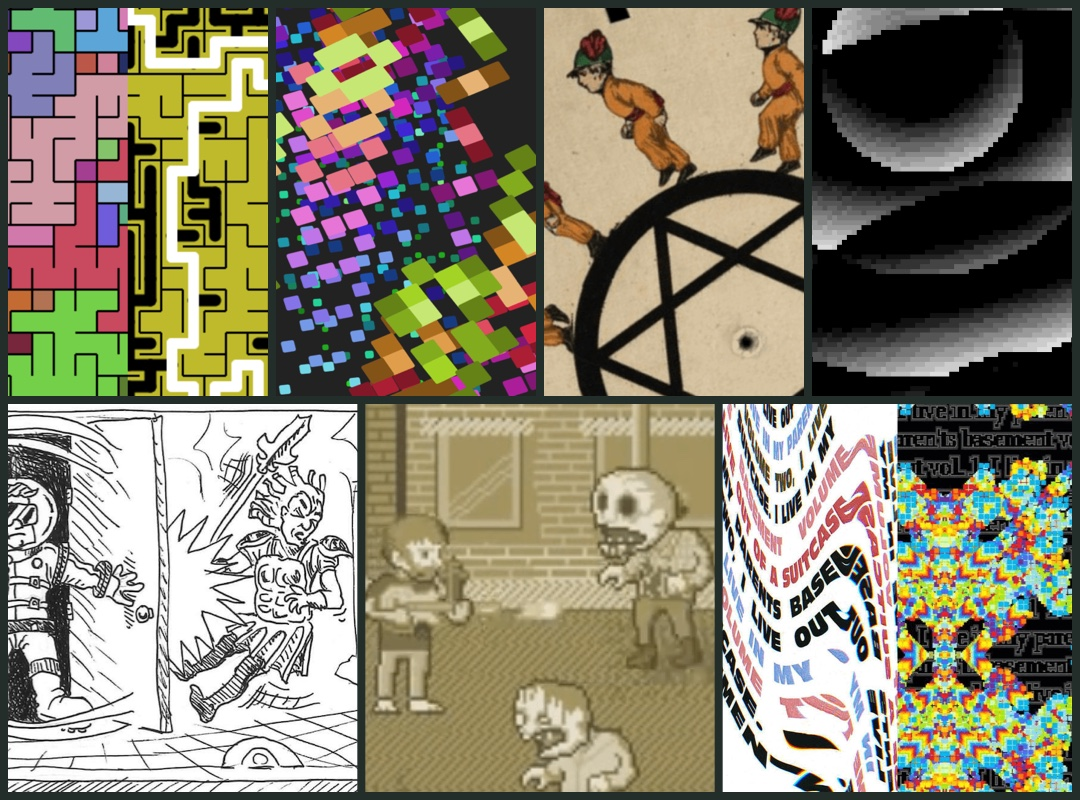
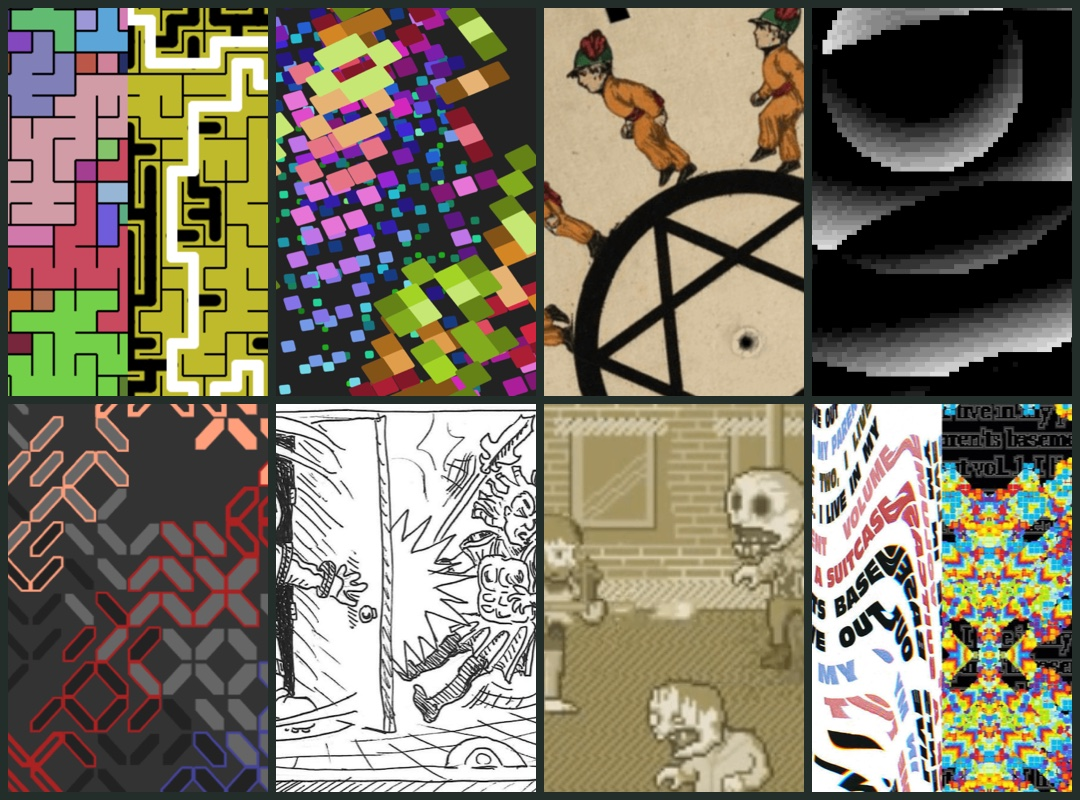
new font, reorganize

diff --git a/public_html/index.html b/public_html/index.html
@@ -118,19 +118,10 @@
           </a>
         </li>
         <li class="gallery-item">
-          <a class="gallery-card" href="projects/10-print.html" aria-describedby="gallery-brief-3">
-            <div class="gallery-visual">
-              <img src="images/10print.png" alt="" width="640" height="420" loading="lazy">
-              <p class="gallery-brief" id="gallery-brief-3">A take on the classic BASIC program: simple random slashes grow into an intricate, maze-like pattern.</p>
-            </div>
-            <div class="gallery-caption"><div><span class="gallery-category">Generative art</span><h3>10 Print</h3></div><span aria-hidden="true">↗</span></div>
-          </a>
-        </li>
-        <li class="gallery-item">
           <a class="gallery-card" href="projects/other-experiments-and-art.html" aria-describedby="gallery-brief-other-experiments">
             <div class="gallery-visual">
               <img src="images/other-experiments-and-art.jpg" alt="" width="1080" height="800" loading="lazy">
-              <p class="gallery-brief" id="gallery-brief-other-experiments">Seven projects spanning browser demos, webcomics, animation, and music.</p>
+              <p class="gallery-brief" id="gallery-brief-other-experiments">Eight projects spanning browser demos, webcomics, animation, and music.</p>
             </div>
             <div class="gallery-caption"><div><span class="gallery-category">Projects</span><h3>Other experiments and art</h3></div><span aria-hidden="true">↗</span></div>
           </a>

diff --git a/public_html/projects/10-print.html b/public_html/projects/10-print.html
@@ -2,31 +2,11 @@
 <html lang="en">
 <head>
   <meta charset="utf-8">
-  <meta name="viewport" content="width=device-width, initial-scale=1">
   <title>10 Print | Joel Schuman</title>
-  <link rel="icon" href="../favicon.ico">
-  <link rel="stylesheet" href="../site-theme.css">
-  <link rel="stylesheet" href="projects.css">
+  <link rel="canonical" href="other-experiments-and-art.html">
+  <meta http-equiv="refresh" content="0; url=other-experiments-and-art.html#10-print">
 </head>
 <body>
-  <header class="project-header">
-    <a class="project-wordmark" href="../">Joel Schuman<span>Software engineer</span></a>
-  </header>
-  <main>
-    <article>
-      <header class="project-intro">
-        <p class="project-category">Generative art</p>
-        <h1>10 Print</h1>
-        <p class="project-summary">A take on the classic BASIC program: simple random slashes grow into an intricate, maze-like pattern.</p>
-        <div class="project-actions">
-          <a class="project-button" href="../with/a-generative-art-thing/">Launch demo</a>
-        </div>
-      </header>
-      <figure class="project-cover">
-        <img src="../images/10print.png" alt="10 Print preview">
-      </figure>
-    </article>
-  </main>
-  <footer class="project-footer"><a href="../#gallery-title">Back to portfolio</a></footer>
+  <p><a href="other-experiments-and-art.html#10-print">View 10 Print</a></p>
 </body>
 </html>

diff --git a/public_html/projects/other-experiments-and-art.html b/public_html/projects/other-experiments-and-art.html
@@ -51,6 +51,14 @@
           <a href="../with/shader-patterns/">Launch shader demo</a>
         </div>
       </section>
+      <section class="project-detail collection-entry" aria-labelledby="10-print">
+        <img src="../images/10print.png" alt="" loading="lazy">
+        <div>
+          <h2 id="10-print">10 Print</h2>
+          <p>A take on the classic BASIC program: simple random slashes grow into an intricate, maze-like pattern.</p>
+          <a href="../with/a-generative-art-thing/">Launch 10 Print demo</a>
+        </div>
+      </section>
       <section class="project-detail collection-entry" aria-labelledby="webcomics">
         <img src="../images/comics.png" alt="" loading="lazy">
         <div>

diff --git a/public_html/site-theme.css b/public_html/site-theme.css
@@ -1,3 +1,15 @@
+@font-face {
+  font-family: "Bricolage Grotesque";
+  src: url("fonts/bricolage-grotesque-500.woff2") format("woff2");
+  font-weight: 500;
+  font-display: swap;
+}
+
+h1,
+h2 {
+  font-family: "Bricolage Grotesque", Arial, Helvetica, sans-serif;
+}
+
 :root {
   --paper: #efeee8;
   --ink: #232d2a;
